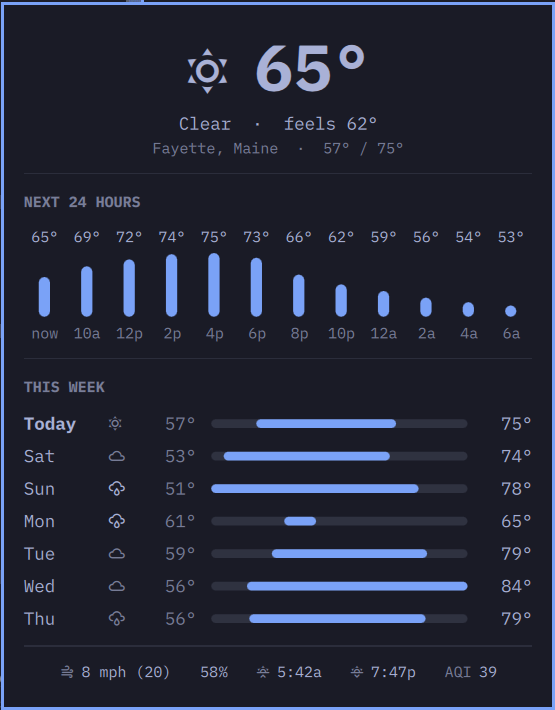
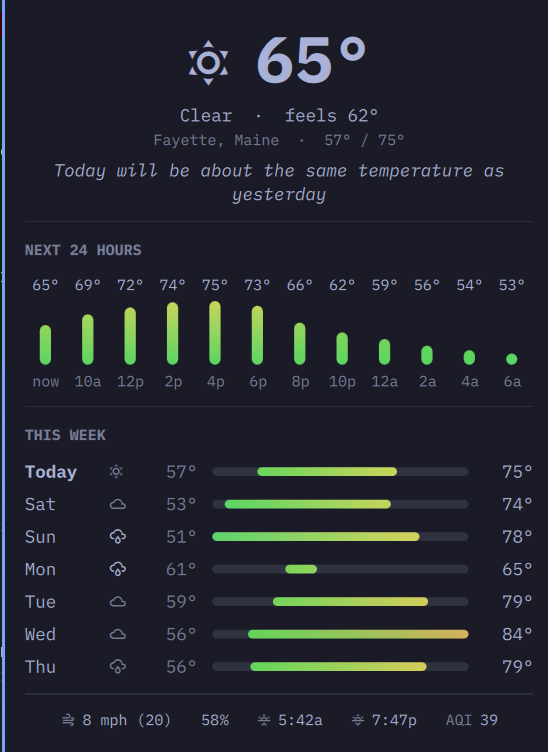
Panel: comparative summary sentence and temperature-colored graphs
The hero now carries linecast's plain-English comparison ("Today will
be a bit cooler than yesterday", from the payload's new summary field),
and both temperature graphs trade the flat accent for an Apple-style
temperature ramp: hourly bars fade from the strip minimum's color at the
base to each hour's own color at the tip, and the week range bars run a
horizontal gradient from each day's low color to its high color.

diff --git a/Panel.qml b/Panel.qml
@@ -213,6 +213,20 @@ Panel {
             font.family: root.contentFontFamily
             font.pixelSize: Style.font.caption
           }
+
+          Text {
+            visible: !!(root.payload && root.payload.summary)
+            anchors.horizontalCenter: parent.horizontalCenter
+            width: Math.min(implicitWidth, weatherColumn.width)
+            topPadding: Style.space(4)
+            horizontalAlignment: Text.AlignHCenter
+            wrapMode: Text.WordWrap
+            text: root.payload ? (root.payload.summary || "") : ""
+            color: root.contentForeground
+            font.family: root.contentFontFamily
+            font.pixelSize: Style.font.body
+            font.italic: true
+          }
         }
 
         // ---- Alerts, when the region has any: urgent-tinted, above the
@@ -280,6 +294,9 @@ Panel {
                 width: Style.space(8)
                 height: Style.space(44)
 
+                // The bar spans the strip's own extent, so its gradient runs
+                // from the color of the strip minimum at the base up to this
+                // hour's own temperature color at the tip.
                 Rectangle {
                   anchors.bottom: parent.bottom
                   anchors.horizontalCenter: parent.horizontalCenter
@@ -287,9 +304,16 @@ Panel {
                   radius: width / 2
                   height: Style.space(8)
                     + Model.extentPos(modelData.temperature, root.hourExtent) * (parent.height - Style.space(8))
-                  color: Model.num(modelData.precipitation_probability, 0) >= 40
-                    ? root.mutedForeground
-                    : Color.accent
+                  gradient: Gradient {
+                    GradientStop {
+                      position: 0
+                      color: Model.tempColor(modelData.temperature, root.units ? root.units.temperature : "")
+                    }
+                    GradientStop {
+                      position: 1
+                      color: Model.tempColor(root.hourExtent.min, root.units ? root.units.temperature : "")
+                    }
+                  }
                 }
               }
 
@@ -384,7 +408,17 @@ Panel {
                     - Model.extentPos(modelData.low, root.weekExtent)) * parent.width)
                   height: parent.height
                   radius: height / 2
-                  color: Color.accent
+                  gradient: Gradient {
+                    orientation: Gradient.Horizontal
+                    GradientStop {
+                      position: 0
+                      color: Model.tempColor(modelData.low, root.units ? root.units.temperature : "")
+                    }
+                    GradientStop {
+                      position: 1
+                      color: Model.tempColor(modelData.high, root.units ? root.units.temperature : "")
+                    }
+                  }
                 }
               }
 

diff --git a/Model.js b/Model.js
@@ -86,6 +86,22 @@ function severityIsUrgent(severity) {
   return s === "severe" || s === "extreme" || s === "warning"
 }
 
+// Temperature → color, Apple-Weather-style: indigo through teal, green,
+// yellow, orange to red across the livable range. Hue is interpolated in
+// °F regardless of display units so both scales get the same ramp;
+// saturation/lightness are fixed for legibility on the panel background.
+function tempHue(value, tempUnit) {
+  var t = num(value, 60)
+  if (String(tempUnit || "").indexOf("C") >= 0) t = t * 9 / 5 + 32
+  var clamped = Math.min(100, Math.max(5, t))
+  // 5°F → 250 (indigo), ~55°F → ~120 (green), 100°F → 0 (red)
+  return 250 * (1 - (clamped - 5) / 95)
+}
+
+function tempColor(value, tempUnit) {
+  return Qt.hsla(tempHue(value, tempUnit) / 360, 0.6, 0.6, 1)
+}
+
 function windLine(current, units) {
   var speed = num(current ? current.wind_speed : NaN, NaN)
   if (isNaN(speed)) return ""
